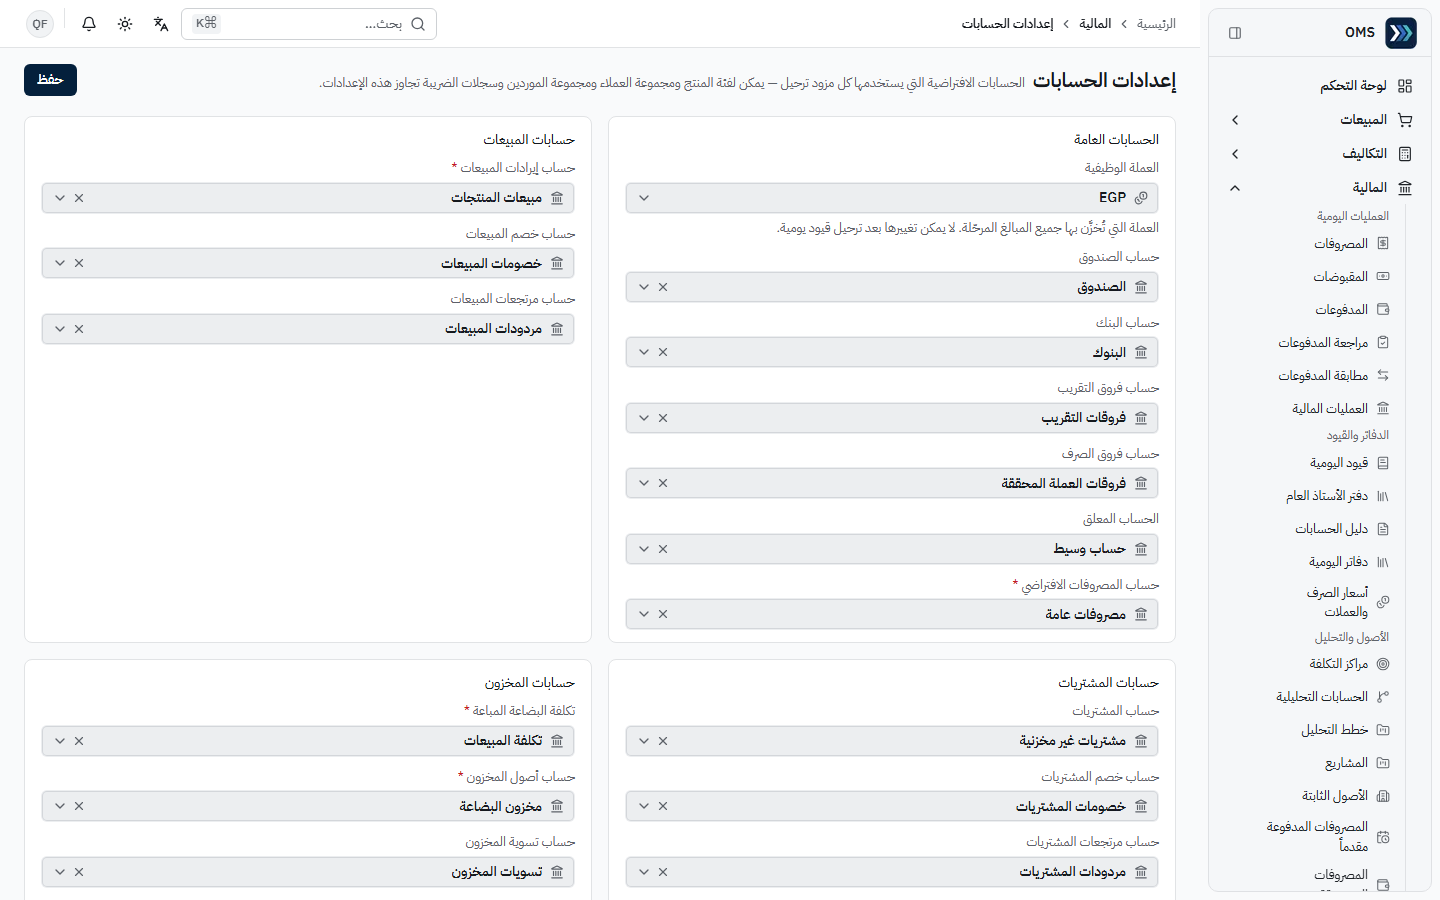
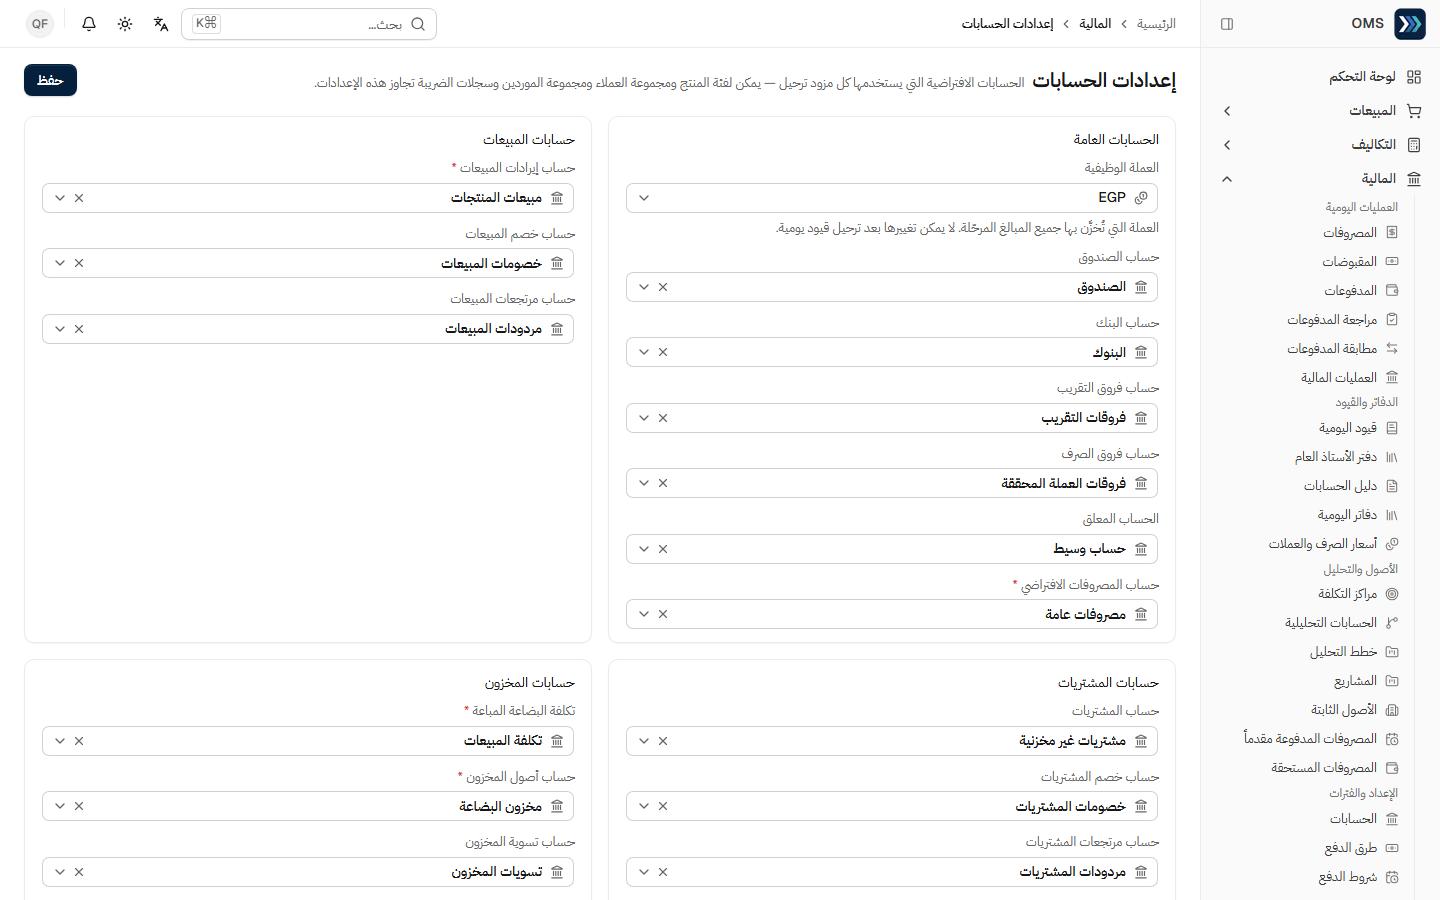
docs: user guide on the approved design (Production recapture, ui-r4 set); rollout verification and handoff

diff --git a/specs/enterprise-ui-overhaul/verification.md b/specs/enterprise-ui-overhaul/verification.md
@@ -200,3 +200,54 @@ Evidence comes from Production:
 - On phones, Sync and Import on leads stay inline as icon-only buttons (they own their own dialogs).
 - The disabled trigger state was verified in code only. Import progress while an import is running
   and a live toast were not exercised on Production, because they would create data.
+
+## Round 4 rollout — approved design app-wide (2026-09-28)
+
+### Gates (local, before release)
+
+| Gate                                                         | Result                                                                                       |
+| ------------------------------------------------------------ | -------------------------------------------------------------------------------------------- |
+| Web typecheck (`tsc --noEmit`)                               | pass                                                                                         |
+| Web lint                                                     | 0 errors (10 pre-existing warnings in untouched files)                                       |
+| Web unit tests (vitest)                                      | 38 files, 287 tests pass (4 classic-only action-plan tests retired)                          |
+| Web production build (`next build`)                          | pass (after review fixes)                                                                    |
+| API production compile (`tsc -p tsconfig.build.json`) + jest | pass; 124 suites, 1486 tests                                                                 |
+| Token contrast (`scripts/design/contrast-check.mjs`)         | all pairs pass, light + dark (checker now parses `hsl()`; field boundary = `--control-edge`) |
+
+### Coverage
+
+- Route sweep (`tmp/pilot/rollout-sweep.mjs`): 136 routes — every sidebar route, 13 editors, one
+  detail page per module — × desktop 1440 AR light and phone 390 AR light: **0 horizontal
+  overflow, 0 page/console errors**; visual contact sheets reviewed (`tmp/pilot/rollout-sheets`).
+- EN/LTR dark + tablet 820 on 13 representative routes: 0 overflow, 0 errors.
+- Print: `/print/document` invoice renders logo, company, print date and QR with the new tokens.
+
+### Independent review → fixes
+
+Verdict "ship after fixes". Fixed: outline/ghost fills moved into the button variants so caller
+tone classes win (distribution control tint); 3:1 field/selector bottom edge (`--control-edge`);
+applied-filter state kept; only chevrons turn on open (month picker icon); count-chip padding;
+auth focus ring; dark error text / link colors; dashboard shows the queues that loaded when one
+source fails; emphasized tiles wrap. Not changed (by design / low value): `calt` off (approved
+screens), field-grid flex layout (approved Round 3.2), `LeadDistributionModal` policy branch now
+unreachable (kept, prop-gated).
+
+### Production (release 370acfc)
+
+- Deployment `6710344498` → **success**; Production CSS carries the new tokens
+  (`--radius-control:8px`, `--control-edge`, `insight-group`).
+- `production-payments-nav-e2e.mjs` (tagged `QA-PN-*` records): **66/66**.
+- `production-operational-ux-e2e.mjs` (tagged `UX-E2E-*`): **64/65** — the failure is the
+  sales-manager QA persona lacking `sales.receipts.create` (API permission; not touched here).
+  Stale assertions fixed in the script: import actions live in the «Import» menu, the report
+  switcher is a listbox button, tablet navigation is a sheet, activating an automatic mode drains
+  held leads by design. The run restores distribution to its previous mode (Paused).
+- Guide: 21 top-level screenshots recaptured read-only from Production + `screenshots/ui-r4/`.
+
+### Remaining gaps (Round 4)
+
+- `screenshots/audit/` and `screenshots/payments/` guide sets still show the Round 2 visuals.
+- `EnterpriseModal` accepts `icon` but no longer draws it; the document editor shows «number on
+  save» instead of the `docCodePreview` placeholder.
+- Print template labels the customer block with the picker placeholder («اختر عميلاً») — pre-existing,
+  print templates untouched.

diff --git a/docs/user-guide/README.md b/docs/user-guide/README.md
@@ -55,6 +55,21 @@
 | قيد اليومية                          | جدول الأسطر أصبح بعنوان **«بنود القيد»**                                                                                                                                                                |
 | الأرقام                              | أرقام لاتينية (0–9) في الشاشة والطباعة، والمبالغ محاذاة إلى اليسار في العربية                                                                                                                           |
 
+## التصميم المعتمد — الجولة الرابعة (2026-09-28)
+
+منذ **2026-09-28** أصبح التصميم الذي اعتمده المالك هو تصميم النظام لكل المستخدمين وكل الشاشات (أُزيل مفتاح «التصميم الجديد (تجريبي)»). المهام والصلاحيات والمراحل والحسابات **لم تتغير**:
+
+- خلفية بيضاء، وزوايا أنعم قليلًا (أزرار وحقول 8px، بطاقات 10px، نوافذ 14px).
+- الأزرار وقوائم الاختيار تُظهر بوضوح حالات المرور والضغط والفتح والتركيز؛ سهم القائمة ينقلب عند فتحها، وللحقول حافة سفلية أوضح.
+- الأرقام المترابطة في لوحة التحكم والتقارير المالية تظهر في صف واحد مقسّم بخطوط رفيعة، وبطاقة التوازن منفصلة بجانبها.
+- «تحويل إلى طلب» و«اعتماد» بالأخضر؛ باقي الأزرار محايدة.
+
+اللقطات: [`screenshots/ui-r4/`](./screenshots/ui-r4/) — حالات عناصر التحكم، لوحة التحكم (سطح المكتب والجوال)، حوار «تحويل إلى طلب»، ميزان المراجعة بالإنجليزية والوضع الداكن.
+
+![حالات عناصر التحكم](./screenshots/ui-r4/01-control-states.png)
+![لوحة التحكم](./screenshots/ui-r4/02-dashboard.png)
+![حوار تحويل الليد إلى طلب](./screenshots/ui-r4/03-lead-convert-dialog.png)
+
 ## الجولة الثانية للواجهة — أين تغيرت الأشياء (2026-09-28)
 
 منذ **2026-09-28** تعمل على الإنتاج الجولة الثانية من الواجهة المؤسسية (إنتاج **a3b22dc**). المهام والصلاحيات والمراحل والقيود **لم تتغير** — تغيّر ترتيب الرؤوس والأزرار وشكل الحقول والتنبيهات. لقطات الجولة الثانية في [`screenshots/ui-r2/`](./screenshots/ui-r2/) والتفاصيل في [screenshot-index.md](./screenshot-index.md#الجولة-الثانية-للواجهة--2026-09-28).

diff --git a/docs/user-guide/screenshot-index.md b/docs/user-guide/screenshot-index.md
@@ -2,6 +2,10 @@
 
 اللغة الظاهرة: **عربية (RTL)**، سطح مكتب 1440 px، وضع فاتح. **تحديث 2026-09-28:** أُعيد التقاط اللقطات على **الجولة الثانية** للواجهة (إنتاج a3b22dc) وأُضيفت مجموعة `screenshots/ui-r2/` — انظر القسم الأول؛ قسم تحديث 2026-09-27 بعده للمرجع. الأقسام: لقطات المدفوعات (DEMO-PDR-20260927)، لقطات الجولة النهائية (DEMO-AUDIT-20260927-FINAL)، لقطات جولة 20260924.
 
+## التصميم المعتمد (الجولة الرابعة) — 2026-09-28
+
+أُعيد التقاط **21** لقطة من لقطات `screenshots/*.png` على الإنتاج https://oms.haseb.org بعد نشر التصميم المعتمد (التقاط **قراءة فقط** بـ `tmp/doc/top.mjs` — كل طلب كتابة للـ API يُمنع داخل السكربت)، بما فيها 07 التي كانت تاريخية. وأُضيفت مجموعة `screenshots/ui-r4/` (5 لقطات، قراءة فقط بـ `tmp/doc/ui-r4.mjs`؛ حوار «تحويل إلى طلب» فُتح ولم يُرسل). مجموعتا `audit/` و`payments/` ما زالتا على الجولة الثانية.
+
 ## الجولة الثانية للواجهة — 2026-09-28
 
 أُعيد التقاط لقطات الدليل على **الجولة الثانية من الواجهة المؤسسية** في **2026-09-28** على الإنتاج https://oms.haseb.org — SHA **a3b22dc** (`a3b22dca9e58882ac9b9df4543ba394c879cf995`، بداية ونهاية كل جولة التقاط). كل اللقطات: عربي، 1440×900، وضع فاتح (عدا `sidebar-active-rail-en.png`). الوسم: **محدَّثة 2026-09-28** = لقطة جديدة بنفس الاسم؛ **جديدة 2026-09-28** = ملف جديد؛ **لقطة تاريخية** = الملف القديم أُبقي لأنه لا بديل له بنفس الاسم أو يوثّق لحظة لا تتكرر — الوظيفة الموصوفة لم تتغير، الشكل فقط. ما تغيّر في الواجهة: [README — أين تغيرت الأشياء](./README.md#الجولة-الثانية-للواجهة--أين-تغيرت-الأشياء-2026-09-28).

diff --git a/specs/enterprise-ui-overhaul/handoff.md b/specs/enterprise-ui-overhaul/handoff.md
@@ -1,6 +1,18 @@
 # Handoff — enterprise-ui-overhaul
 
-**Status:** Round 1 COMPLETE (2026-09-27); Round 2 COMPLETE (2026-09-28).
+**Status:** Round 1 COMPLETE (2026-09-27); Round 2 COMPLETE (2026-09-28); Rounds 3–4 COMPLETE and released (2026-09-28).
+
+- **Rounds 3–4 (current design):** the owner approved the Round 4 local preview (Microsoft
+  Clarity reference polish on the Round 3 Vercel-reference pilot) and it was rolled out as the only
+  design on 2026-09-28. Rules: `design-system.md` §12 (tokens in `globals.css` / `tokens.css`,
+  recipes in `theme/recipes.css`); decisions: `spec.md` "Round 4 rollout".
+- **Rollout evidence:** `verification.md` §"Round 4 rollout"; route sweep
+  `tmp/pilot/rollout-sweep` (136 routes × desktop/phone, 0 overflow, 0 console errors);
+  before/after `tmp/pilot/compare-r4.html`; independent review findings and fixes listed there.
+- **Commits:** b76dabd (design app-wide), ec887d0 + 370acfc (E2E / contrast checks), b03645f
+  (specs); release verified HEAD = origin/main = Production (see `verification.md`).
+- **Known leftovers:** see `spec.md` "Round 4 rollout" → Known leftovers, and `verification.md`
+  §"Round 4 rollout" → Remaining gaps.
 
 - **Round 2** covers:
   - selector triggers as tonal buttons
